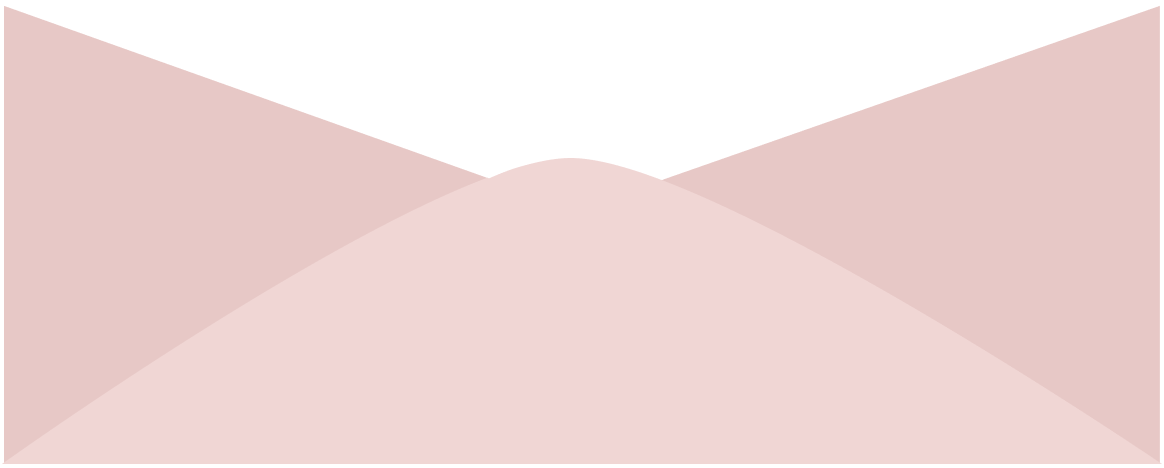
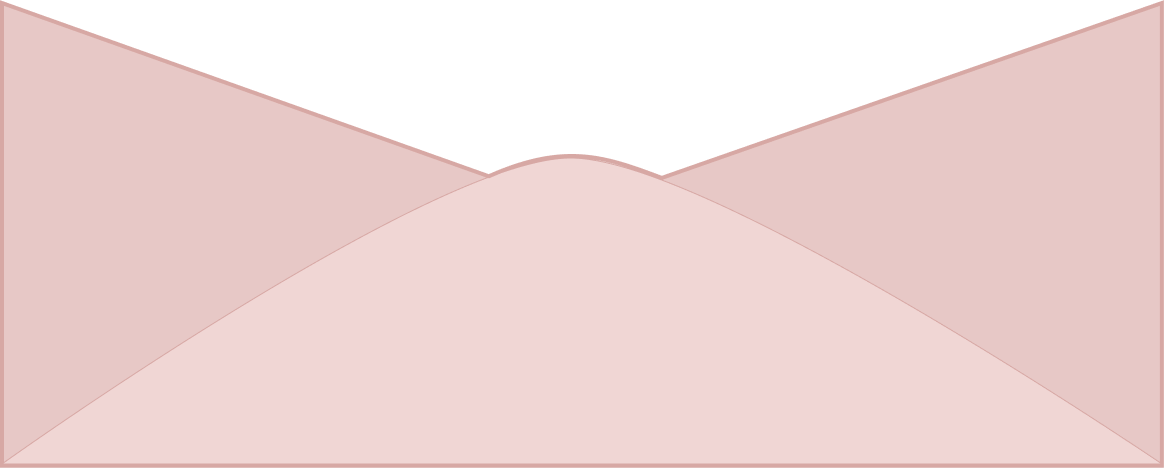
style: 편지봉투 호버 색 수정

diff --git a/todak/src/pages/WriteLetter.jsx b/todak/src/pages/WriteLetter.jsx
@@ -5,7 +5,6 @@ function WriteLetter({ onClose }) {
   const [letter, setLetter] = useState("");
   const [showToast, setShowToast] = useState(true);
   const [isWritten, setIsWritten] = useState(false);
-  const [imageSrc, setImageSrc] = useState("/img/envelopMain.png");
   const [showTooltip, setShowTooltip] = useState(false);
   const containerRef = useRef(null);
 
@@ -151,17 +150,17 @@ function WriteLetter({ onClose }) {
           <img src="/img/letterTop.png" alt="봉투 뚜껑" />
         </div>
         <div
-          className={styles.envelopMain}
-          onMouseEnter={() => {
-            setImageSrc("/img/hoverLetter.png");
-            setShowTooltip(true);
-          }}
-          onMouseLeave={() => {
-            setImageSrc("/img/envelopMain.png");
-            setShowTooltip(false);
-          }}
+          className={`${styles.envelopMain} ${
+            showTooltip ? styles.hoverLetter : ""
+          }`}
+          onMouseEnter={() => setShowTooltip(true)}
+          onMouseLeave={() => setShowTooltip(false)}
         >
-          <img src={imageSrc} alt="봉투 메인" onClick={handleSendClick} />
+          <img
+            src={showTooltip ? "/img/hoverLetter.png" : "/img/envelopMain.png"}
+            alt="봉투 메인"
+            onClick={handleSendClick}
+          />
           {showTooltip && (
             <div className={styles.tooltip}>편지를 저장하려면 클릭하세요.</div>
           )}

diff --git a/todak/src/pages/ShowLetter.jsx b/todak/src/pages/ShowLetter.jsx
@@ -1,7 +1,23 @@
 import styles from "../css/StyledShowLetter.module.css";
 
 function ShowLetter() {
-  return <></>;
+  return (
+    <>
+      <div className={styles.container}>
+        <div className={styles.innerContainer}>
+          <div className={styles.letterWp}>
+            <img src="/img/letterPreview.png" alt="미리보기" />
+            <div className={styles.content}></div>
+          </div>
+          <div className={styles.letterInfo}>
+            <div className={styles.user}></div>
+            <div className={styles.profile}></div>
+            <div className={styles.title}></div>
+          </div>
+        </div>
+      </div>
+    </>
+  );
 }
 
 export default ShowLetter;

diff --git a/todak/src/css/StyledWriteLetter.module.css b/todak/src/css/StyledWriteLetter.module.css
@@ -38,6 +38,10 @@
   bottom: 875px;
   z-index: 1000;
 }
+.hoverLetter {
+  position: relative;
+  right: 1px;
+}
 .mainLetter::placeholder,
 .mainLetter:focus {
   color: #2b2b2b;
